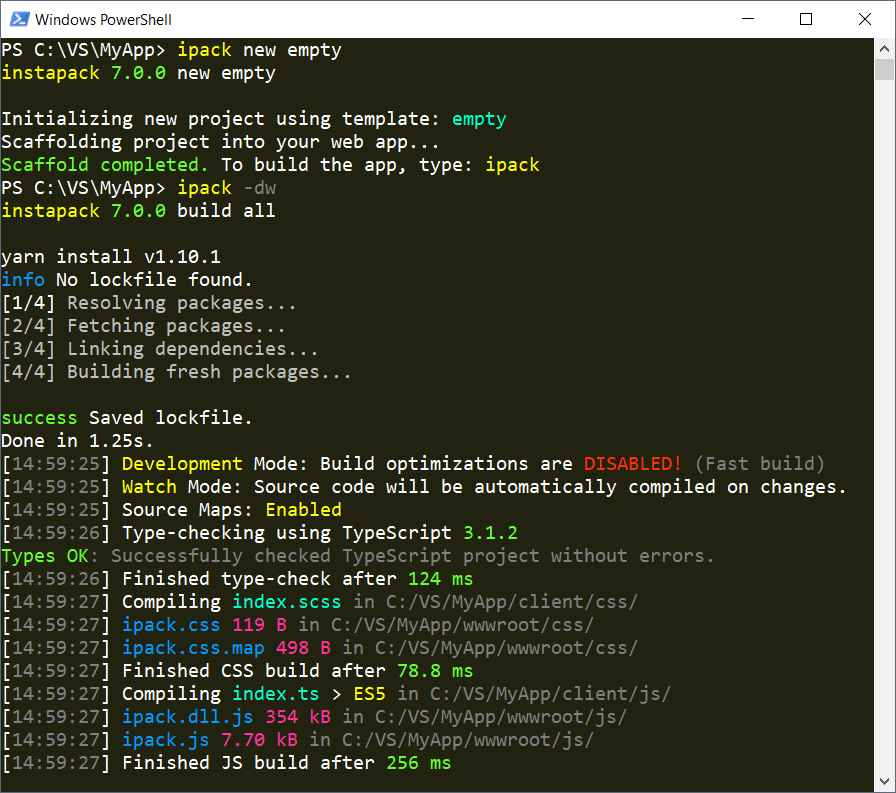
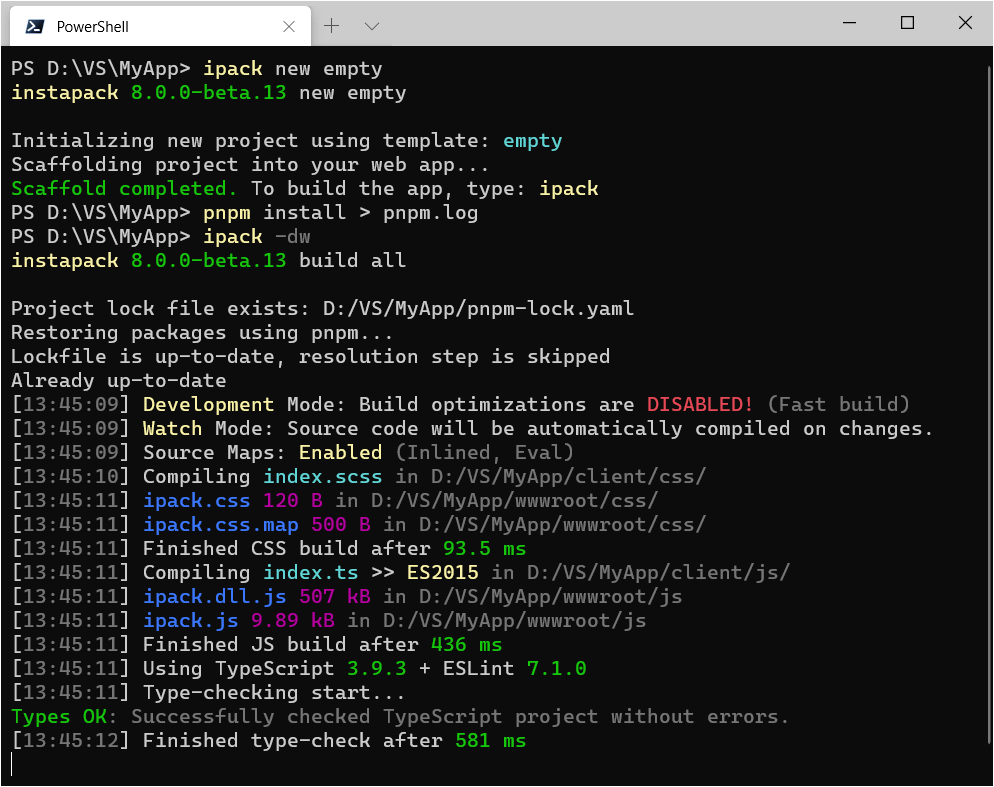
Update screenshot using Windows Terminal.

Changed region(s): [[0.0, 0.0, 1.0, 1.0], [0.4375, 0.4269, 0.4688, 0.4574], [0.375, 0.305, 0.4062, 0.3355]]

diff --git a/README.MD b/README.MD
@@ -827,13 +827,6 @@ Windows Defender or other anti-virus software apparently slow down package resto
 
 - Use very short root folder name for projects, such as `D:\VS`, to avoid potential problems with Windows system paths over 260 characters long. Then exclude the folder from the anti-virus.
 
-### Your PowerShell is cute. How to?
+### The screenshot, what is THAT?
 
-```powershell
-Set-ExecutionPolicy RemoteSigned -scope CurrentUser
-iex (new-object net.webclient).downloadstring('https://get.scoop.sh')
-scoop install concfg
-concfg import https://raw.githubusercontent.com/ryanelian/instapack/master/concfg/firefly.json
-```
-
-For more information, visit http://scoop.sh/ and https://github.com/lukesampson/concfg
+The new [Windows Terminal](https://github.com/microsoft/terminal) with [Powershell Core](https://github.com/PowerShell/Powershell).
